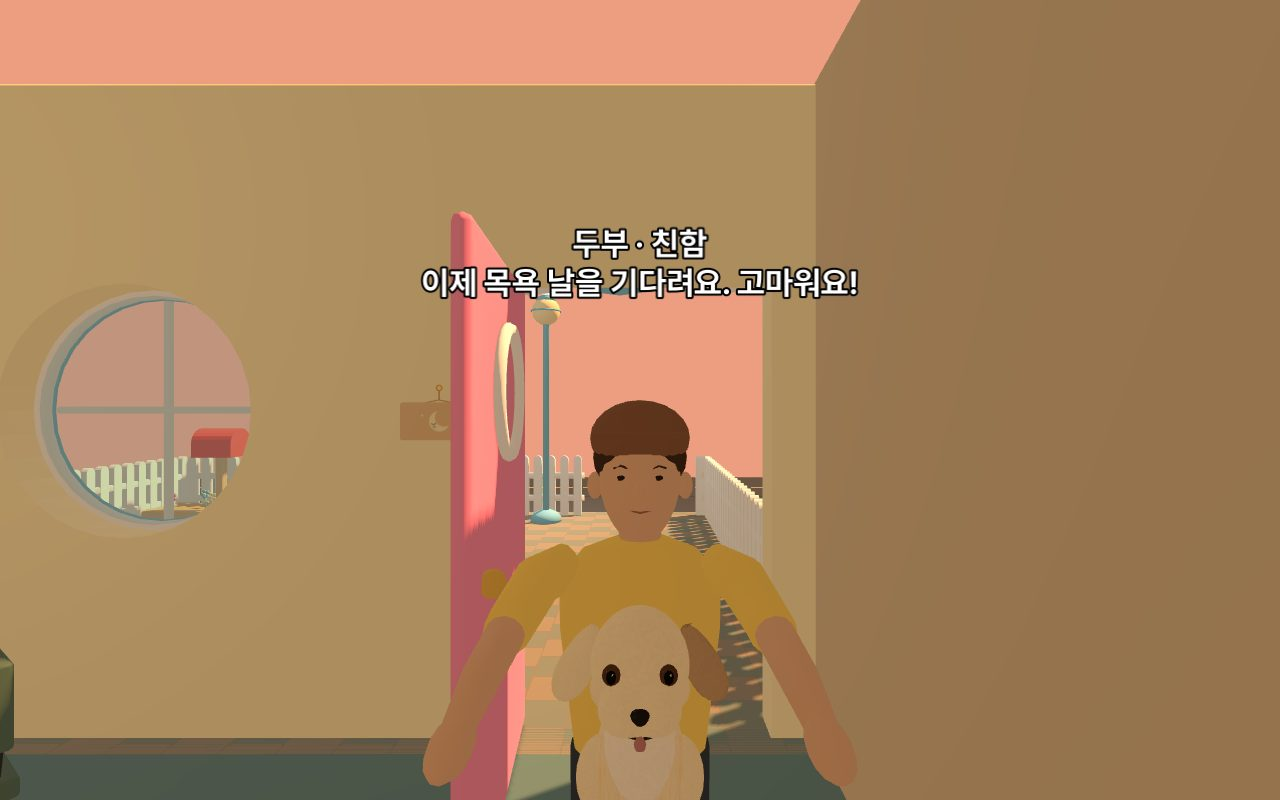
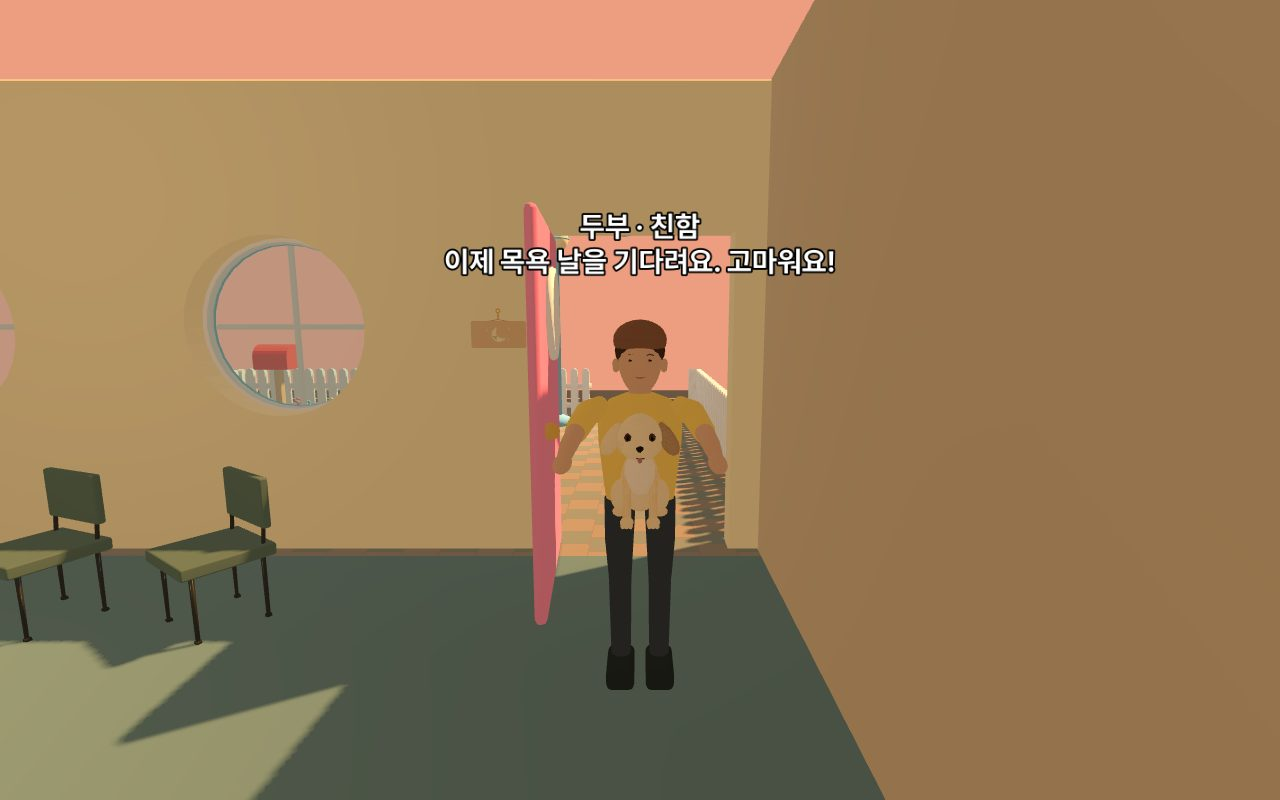
[개발] QA #138 감사의 날 구도: 주인과 안긴 동물이 같이 보이게, 앞 손님이 비킨 뒤 다음 손님
Claude-Session: https://claude.ai/code/session_011AhoxvjuUAeZ5SvtvgroTK

diff --git a/docs/status/dev.md b/docs/status/dev.md
@@ -3,6 +3,7 @@
 **지금 하는 일**: 액세서리 PR (`dev/v4-accessory`, #133 위).
 
 **끝낸 일**:
+- QA #138 감사의 날 구도: 플레이어를 문에서 약 2.3 m 떨어진 곳에 세우고 카메라를 살짝 내려다보게 → 말하는 주인의 상체와 안긴 동물이 같이 보임 (단짝이 내려와 배를 보여 주는 자리도 화면 안). 앞 손님이 줄로 비킨 뒤 (최대 1.5초) 다음 손님이 들어옴. 말풍선은 멀어진 만큼 크게. 스크린샷 `docs/dev/screenshots/v4_thanks_visit.jpg`
 - V4 액세서리 (GDD_V4 '액세서리', TUNING_V4 7-1 ✅, ART_SLOTS 4-5):
   - 범주 4 (리본·모자·스카프·꽃핀) × ★1·★2·★3 = 12개, 처음엔 분홍 리본 (`scripts/v4/fp_accessory.gd`).
   - 다 씻은 뒤 목욕통 오른쪽 옆 **바구니**를 클릭하면 가진 것이 둥글게 펼쳐지고, 고르면 머리 (리본·모자) · 목 (스카프) · 오른쪽 귀 옆 (꽃핀) 에 씌워짐. "안 씌우기/벗기기" 도 있음, 안 씌워도 벌 없음.
